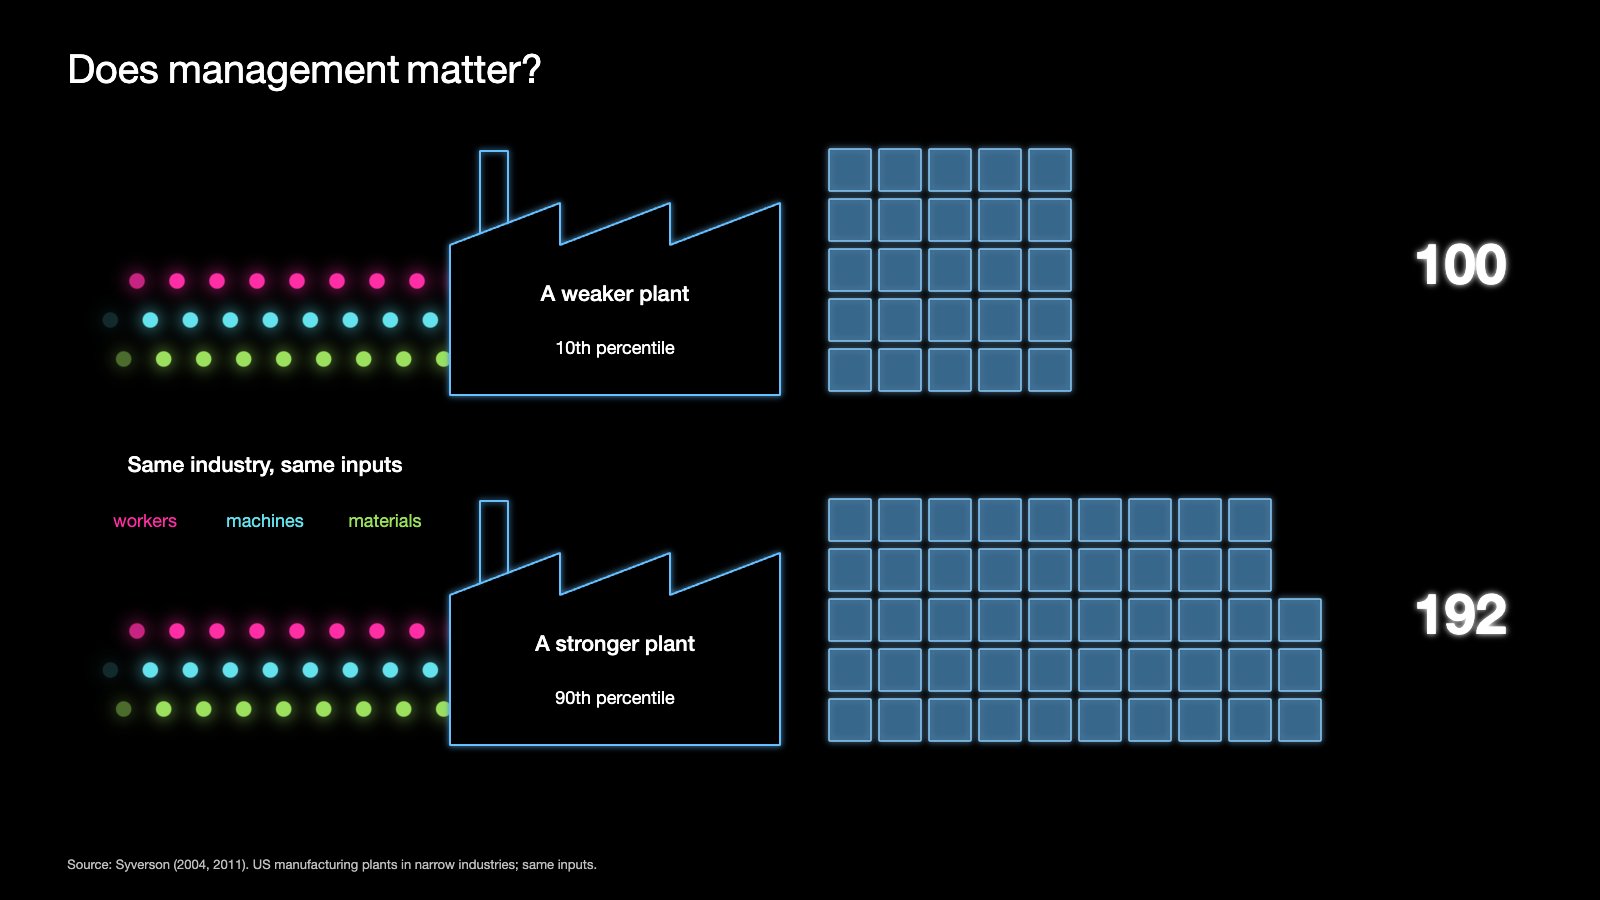
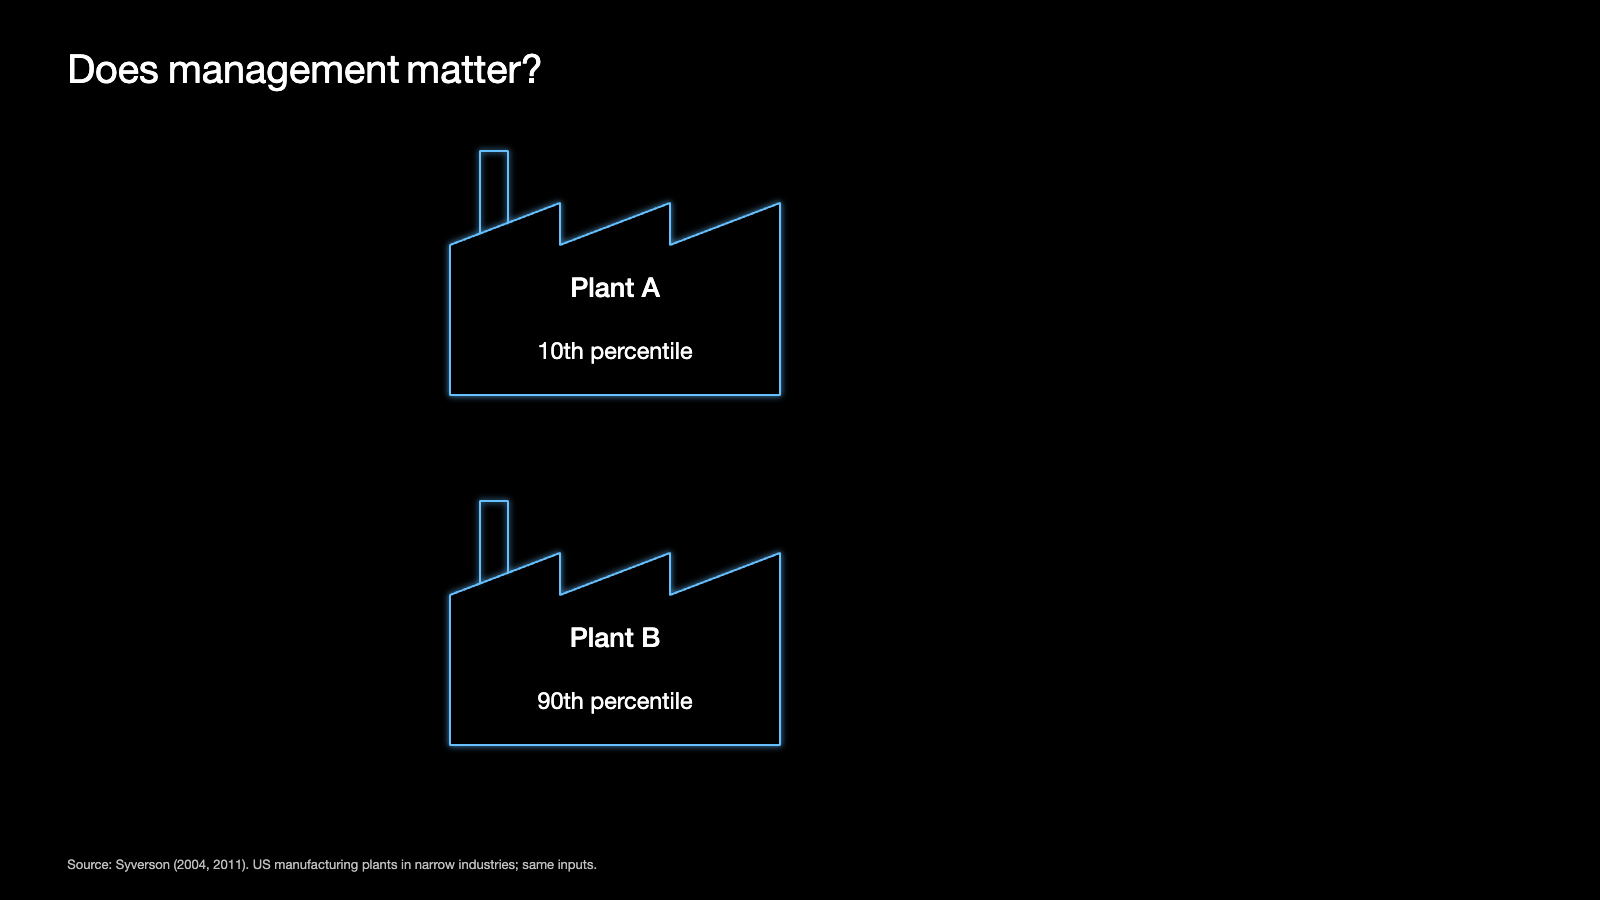
Q5 opens in three clicks; Plant A and Plant B; punchline: Management matters

diff --git a/src/scenes/q6.js b/src/scenes/q6.js
@@ -1,5 +1,6 @@
 // Shown as Q5: Does management matter? (the activity system keeps the old "why")
-//   q6-plants      two factories, the same inputs: the stronger one's output races to 192 while the weaker's stops at 100 (Syverson)
+//   q6-plants      two factories, Plant A and Plant B, built in three clicks: the plants, the same inputs, then
+//                  manufacturing: Plant B's output races to 192 while Plant A's stops at 100 (Syverson)
 //   q6-plants-free the extra 92 becomes a ghost of a second factory: almost a second factory, for free
 //   q6-inside      inside the factories: 16 management-question lights, lit to scores 0.38 and 0.81 (Bloom et al. 2019)
 //   q6-practices   US plants on the management-score scale: a wide spread (Bloom et al. 2019, Table A4); after
@@ -20,7 +21,7 @@
 import { TITLES, go, dur } from './common.js';
 import { SHOTS } from '../rigmath.js';
 import { PAL, text, line, rect, circle, ellipse, poly, light, wrap } from '../concepts/kit.js';
-import { dotHistogram, boxesFor, gauge } from '../concepts/management.js';
+import { dotHistogram, boxesFor, gauge, PLANT_NAMES, openingClocks, feedAt, stepsBegun } from '../concepts/management.js';
 import {
   LANES, FACTORY, STREAM, PILE, RACE, RACE_END, BOX, factoryCentre, pileX0, slotCentre, pileTop, drawFactory, ghostFactory,
   inputLights, inputsLabel, outputPile, outputCounter, factoryLabel, scoreLights, SCORE_LIGHTS,
@@ -102,38 +103,35 @@ export function q6Scene(ctx) {
   const SY = prod.syverson || { p10: 100, p90: 192 };
   const syvSource = SY.source_line || '';
   const UNITS = [SY.p10, SY.p90];
-  const NAMES = [['A weaker plant', '10th percentile'], ['A stronger plant', '90th percentile']]; // of productivity, same industry
+  const NAMES = PLANT_NAMES; // Plant A (10th percentile of productivity, same industry) and Plant B (90th)
   const towerAgent = (x, base, h, w, color) => ({ ...light(x, base, { size: 0.001, color, alpha: 0 }),
     tower: h, towerBase: base, towerW: w, towerD: w * 0.6 });
   const Q5 = ['q6-plants', 'q6-plants-free', 'q6-inside', 'q6-practices', 'q6-drivers'];
   const isBack = (id, from) => Q5.indexOf(from) > Q5.indexOf(id); // arriving from a later Q5 move
-  const STOP = RACE.start + RACE.run;                             // the feeds stop as the last box leaves
-  const feedClock = t => { const u = Math.min(1, Math.max(0, t - STOP) / 0.6); return t <= STOP ? t : STOP + 0.6 * (u - (u * u) / 2); };
   const STREAM_LEN = LANES[0].x0 - STREAM.x0;
-  // the input lights at race clock t (o: overall opacity); the streams sweep in from the left at the start
-  const plantsLights = (t, o = 1) => inputLights(LANES, feedClock(Math.max(0, t)),
-    d => o * ramp(t, 0.35 + (d / STREAM_LEN) * 0.7, 0.35));
+  // the input lights at race clock `race` (o: overall opacity; tIn: seconds since the inputs were shown, as the
+  // streams sweep in from the left). They stand still until manufacturing starts, flow in with the race and stop
+  // as the last box leaves.
+  const plantsLights = (race, o = 1, tIn = 1e6) => inputLights(LANES, feedAt(race, RACE),
+    d => o * ramp(tIn, 0.05 + (d / STREAM_LEN) * 0.7, 0.35));
   const GAP0 = boxesFor(UNITS[0], PILE.perBox);                 // the stronger plant's boxes from here on are its extra output
-  // the settled (or racing) picture at race clock t. oFac: the factories and their names; oPile: piles and
+  // the settled (or racing) picture at race clock `race` (piles and counters). tPlants, tIn: seconds since the
+  // plants and the inputs were shown (they fade in). oFac: the factories and their names; oPile: piles and
   // counters; oIn: the inputs label; extra(k): the look of the stronger plant's extra boxes
-  function plantsDraw(t, { oFac = 1, oName = oFac, oPile = 1, oSub = 1, oIn = 1, extra = null } = {}) {
-    const out = [], oF = ramp(t, 0, 0.6) * oFac, oL = ramp(t, 0.25, 0.6) * oName;
+  function plantsDraw(race, { tPlants = 1e6, tIn = 1e6, oFac = 1, oName = oFac, oPile = 1, oSub = 1, oIn = 1, extra = null } = {}) {
+    const out = [], oF = ramp(tPlants, 0, 0.6) * oFac, oL = ramp(tPlants, 0.25, 0.6) * oName;
     LANES.forEach((L, i) => {
       out.push(...drawFactory(factoryCentre(L), 1, oF));
       out.push(...factoryLabel(L, NAMES[i][0], NAMES[i][1], oL, oL * oSub));
-      out.push(...outputPile(L, UNITS[i], t, { o: oPile, style: i && extra ? k => (k >= GAP0 ? extra(k) : null) : null }));
-      out.push(...outputCounter(L, UNITS[i], t, ramp(t, 1.1, 0.5) * oPile));
+      out.push(...outputPile(L, UNITS[i], race, { o: oPile, style: i && extra ? k => (k >= GAP0 ? extra(k) : null) : null }));
+      out.push(...outputCounter(L, UNITS[i], race, ramp(race, 1.1, 0.5) * oPile));
     });
-    out.push(...inputsLabel(ramp(t, 0.9, 0.6) * oIn));
+    out.push(...inputsLabel(ramp(tIn, 0.3, 0.6) * oIn));
     return out;
   }
   let raceT = 0; // the last race clock q6-plants drew (q6-plants-free finishes a race cut short)
-  // q6-plants starts its race late after a "you are here" or a zoom from the master view
-  const plantsStart = { shift: 0, t0: null };
-  function plantsClock(t) {
-    const s = plantsStart.t0 != null ? (performance.now() - plantsStart.t0) / 1000 : t;
-    return s - plantsStart.shift;
-  }
+  // q6-plants builds in three clicks (the plants, the inputs, manufacturing): the beat-clock second each began
+  const opening = { at: [0, null, null] };
 
   // ======================= 1b. the extra 92: almost a second factory, for free =======================
   const GHOST = (() => {
@@ -717,23 +715,36 @@ export function q6Scene(ctx) {
   const beats = [
     {
       id: 'q6-plants',
+      // three clicks (or Space): 1 the two plants, 2 the inputs line up at their doors, 3 manufacturing starts and
+      // the output races; the next click goes on to the free factory (a race cut short finishes there)
+      timelapse: { from: 0, to: 2, secondsPerYear: 0.25, clickSteps: true, spaceSteps: true },
       enter(instant) {
-        const from = instant ? null : prevBeat;
-        const fromTile = !!instant && !!ctx.prevScene?.hub && !EXPORTING; // zoomed in from the master view: the race runs after the zoom
+        const from = instant ? null : prevBeat, now = tickT(performance.now());
+        // after a "you are here" the plants fade in once it has gone; from a master-view tile they are already there
         const pre = !instant && ctx.prelude ? Math.max(0, 1.1 - (performance.now() - ctx.prelude.start) / 1000) : 0;
-        plantsStart.t0 = fromTile ? performance.now() : null;
-        plantsStart.shift = fromTile ? 0.75 : Math.min(pre, PRELUDE_SECONDS);
         plantsBack = isBack('q6-plants', from) ? from : null;
-        setup('q6-plants', instant, syvSource, plantsLights((instant && !fromTile) || plantsBack ? 1e6 : -1));
+        if (plantsBack) { opening.at = [now - 1e4, now - 1e4, now - 1e4]; ctx.director.setYear(2); } // back: settled, all three steps
+        else { opening.at = [instant ? now - 1e4 : Math.min(pre, PRELUDE_SECONDS), null, null]; ctx.director.setYear(0); } // Esc starts over
+        const c = openingClocks(now, opening.at, RACE);
+        setup('q6-plants', instant, syvSource, plantsLights(c.race, 1, c.inputs));
       },
-      tick(now) { ctx.world.setSome(plantsLights(plantsBack ? 1e6 : plantsClock((now - ctx.t0) / 1000))); },
+      frame(y) { // a step begins as the click starts it; stepping back clears it (export stills are settled)
+        const now = tickT(performance.now());
+        stepsBegun(y).forEach((on, k) => {
+          if (!k) return;
+          if (!on) opening.at[k] = null;
+          else if (opening.at[k] == null) opening.at[k] = EXPORTING ? now - 1e4 : now;
+        });
+      },
+      tick(now) { const c = openingClocks(tickT(now), opening.at, RACE); ctx.world.setSome(plantsLights(c.race, 1, c.inputs)); },
       draw: t => {
+        const c = openingClocks(clock(t), opening.at, RACE), look = { tPlants: c.plants, tIn: c.inputs };
+        raceT = c.race;
         if (plantsBack) { // back from the ghost factory: it fades and the extra boxes return
           const g = plantsBack === 'q6-plants-free' ? 1 - clamp01(clock(t) / 0.9) : 0;
-          return plantsDraw(1e6, { extra: g > 0 ? extraLook(g) : null }).concat(ghostDraw(g));
+          return plantsDraw(c.race, { ...look, extra: g > 0 ? extraLook(g) : null }).concat(ghostDraw(g));
         }
-        raceT = plantsClock(clock(t));
-        return plantsDraw(raceT);
+        return plantsDraw(c.race, look);
       },
     },
     {

diff --git a/src/concepts/management.js b/src/concepts/management.js
@@ -76,3 +76,28 @@ export const gauge = (share, n) => Array.from({ length: n }, (_, i) => clamp01(c
 // questions 1-5 ask about problems, indicators, their review and display boards (monitoring), 6-8 about
 // targets' time frame, difficulty and awareness (targets): online appendix Table A2.
 export const MOPS_AREAS = [{ name: 'Monitoring', n: 5 }, { name: 'Targets', n: 3 }, { name: 'Incentives', n: 8 }];
+
+// ---- Q5's opening (q6-plants): the plant names, and its three clicks ----
+
+// The weaker plant on top, the stronger below (percentiles of productivity, same narrow industry).
+export const PLANT_NAMES = [['Plant A', '10th percentile'], ['Plant B', '90th percentile']];
+
+// Three clicks: 0 the two plants, 1 the inputs line up at their doors, 2 manufacturing starts (the inputs flow
+// in, the boxes stack up, the counters climb). The move's stepped clock y runs 0..2; step k begins once y passes k - 1.
+export const stepsBegun = y => [true, y > 1e-6, y > 1 + 1e-6];
+
+// How far the inputs have moved at race clock `race`: still until manufacturing starts (race = make), then with
+// the race, easing to a stop over `ease` seconds once the last box has left.
+export function feedAt(race, R, { make = 0.6, ease = 0.6 } = {}) {
+  const stop = R.start + R.run, u = Math.min(1, Math.max(0, race - stop) / ease);
+  return Math.max(0, (race <= stop ? race : stop + ease * (u - (u * u) / 2)) - make);
+}
+
+// The clocks the opening draws with at beat clock t. at = [plants, inputs, making]: the second each step began
+// (null until it has). plants, inputs: seconds since that step began (-1 before it); race: the race clock R,
+// 0 before manufacturing and `make` the moment it starts (so the first boxes leave within a second); feed: feedAt.
+export function openingClocks(t, at, R, { make = 0.6, ease = 0.6 } = {}) {
+  const since = a => (a == null ? -1 : t - a);
+  const race = at[2] == null ? 0 : make + Math.max(0, t - at[2]);
+  return { plants: since(at[0]), inputs: since(at[1]), race, feed: feedAt(race, R, { make, ease }) };
+}

diff --git a/src/flow/modules.js b/src/flow/modules.js
@@ -12,7 +12,7 @@ const INSIGHTS = {
   q2: 'Strategic thinking requires understanding industry context',
   q3: 'Strategic thinking also requires choosing a strong position within the industry',
   q4: 'Competition no longer stops at industry lines',
-  q6: 'Management matters as much as R&D',
+  q6: 'Management matters',
   q7: 'Competitive advantage fades, for the most part, after five years',
 };
 

diff --git a/README.md b/README.md
@@ -1,6 +1,6 @@
-# Strategy world (EY morning session)
+# Strategy world
 
-A static copy of the presenter app, for GitHub Pages. Open `index.html` from the site address; `roadmap/`,
+A static copy of the presenter app (strategy landscape, roadmap and concepts), for GitHub Pages. Open `index.html` from the site address; `roadmap/`,
 `stages/` and `questions/` open those sections directly (add `?show=1` for show mode).
 
 Generated by `tools/make_site.sh` in the app folder; edit the app there, not here, then re-run that script.
